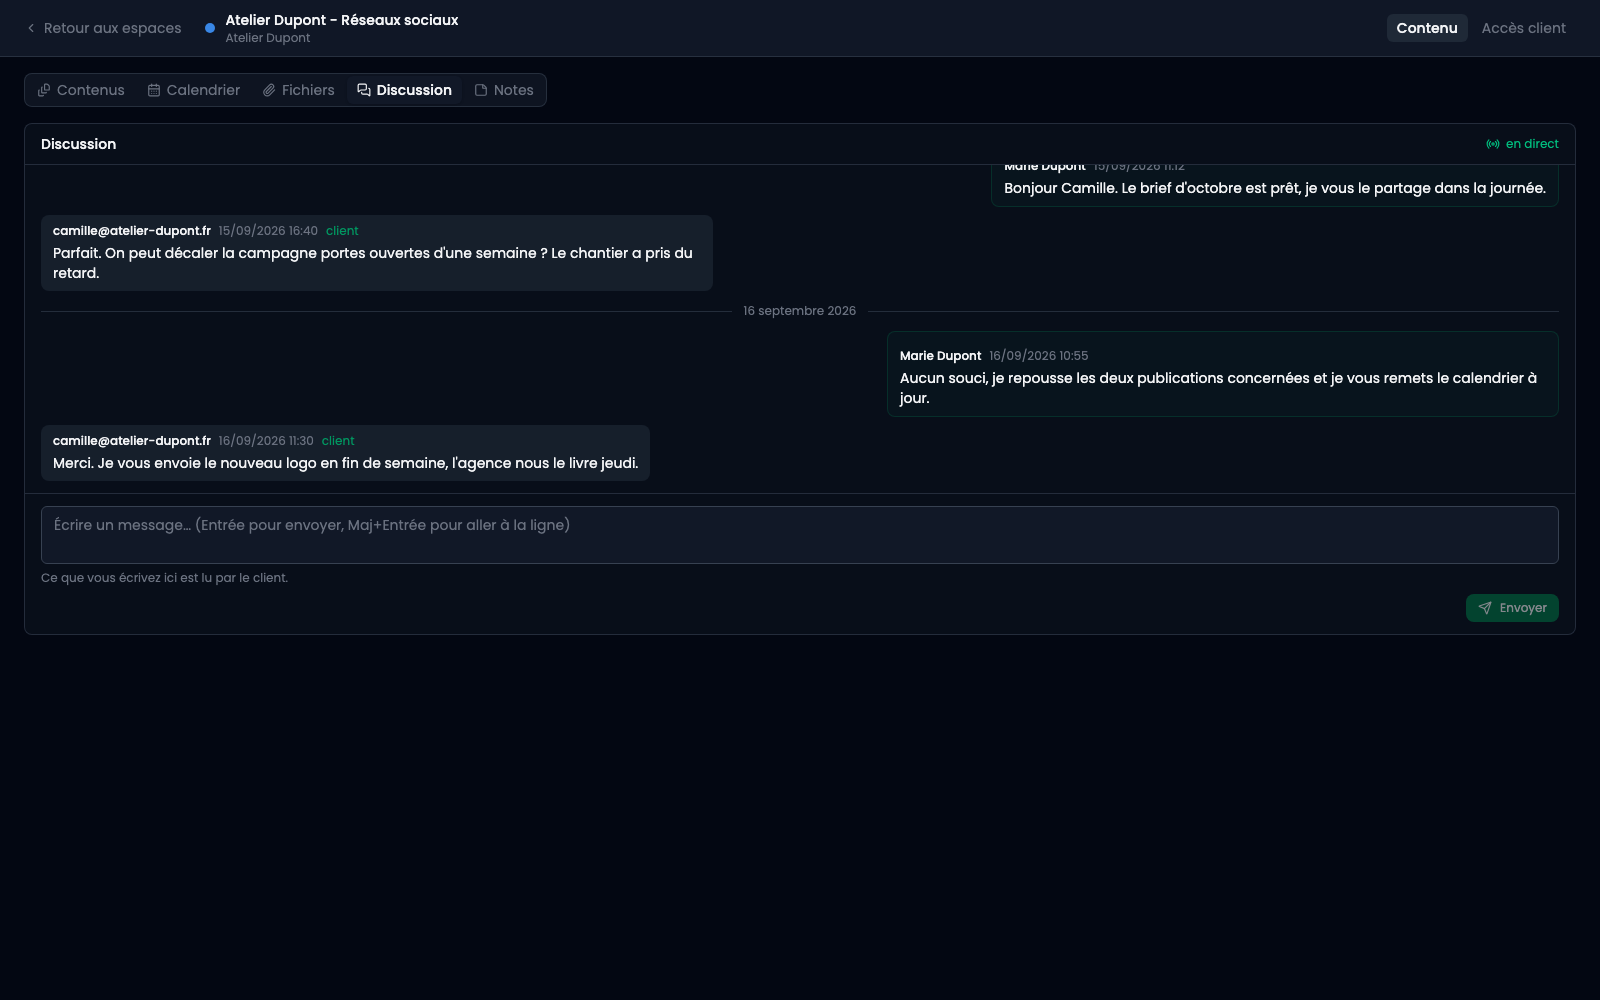
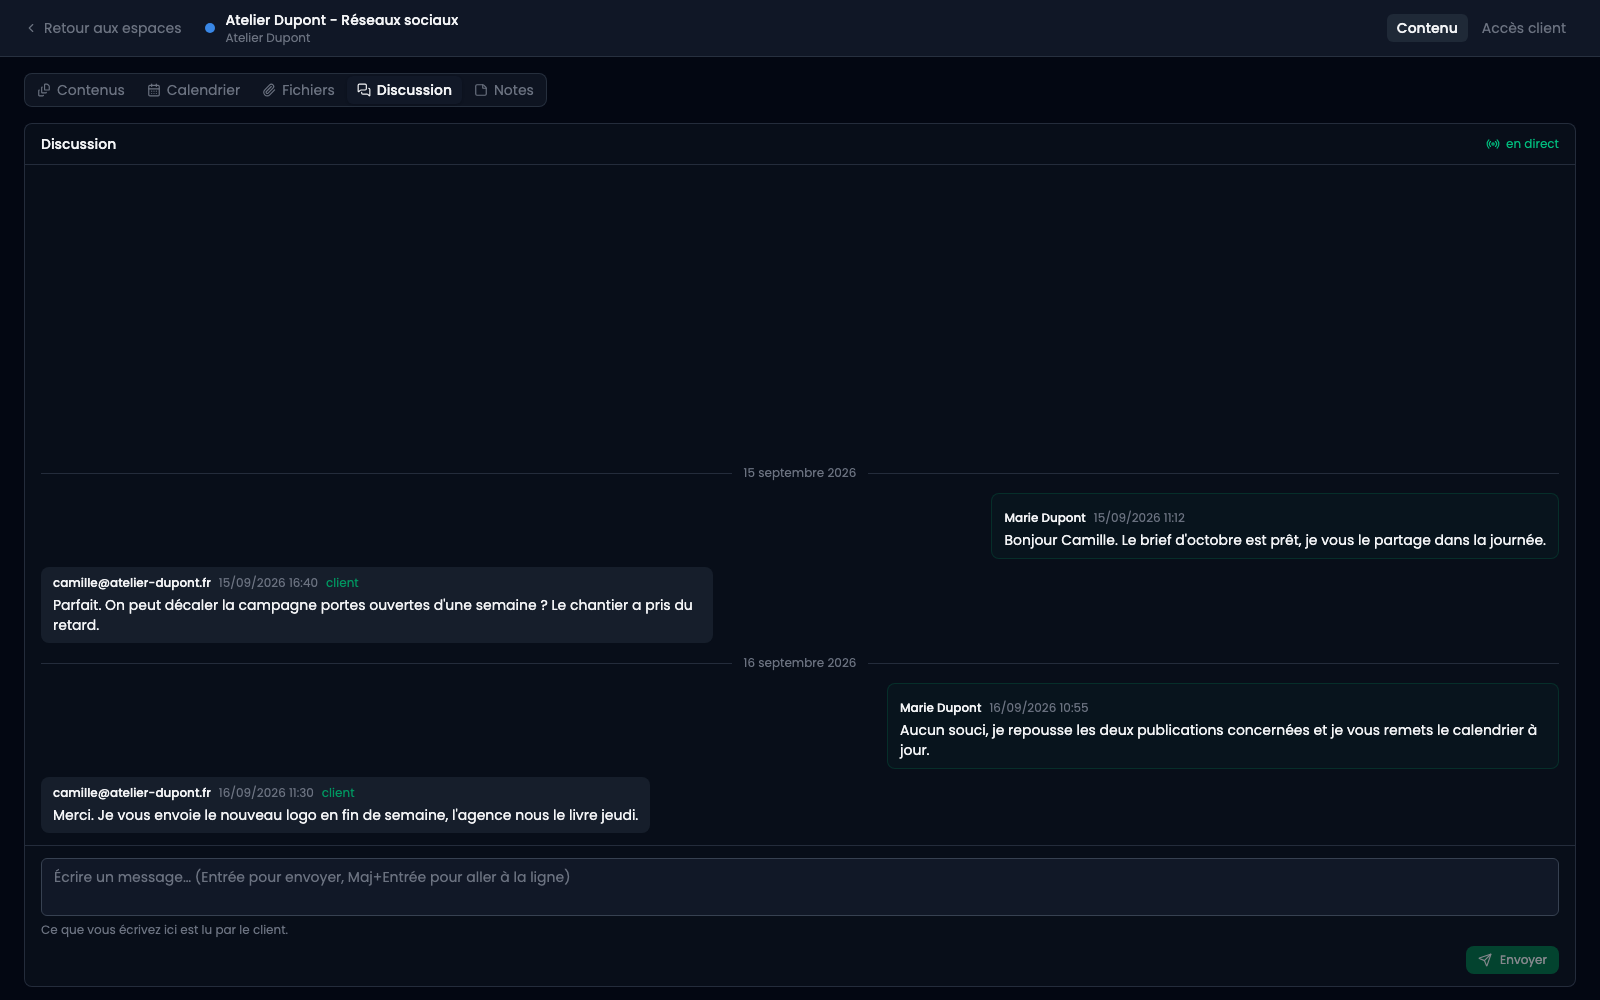
feat(studio): a space's conversation takes the screen
It sat in a box of fixed height in the middle of an empty screen: thirty
messages showed three, and you scrolled inside a window the size of a card
while the rest of the page did nothing. It is the one tab of a space read from
top to bottom with nothing else around it, so it takes the height it has.

A short conversation now rests at the bottom, above the composer, the way a
messenger does, instead of floating at the top of a void. Once it overflows the
automatic margin is zero and scrolling is ordinary again.

The container decides, not the panel: on the client's page the conversation is
one block among others under their calendar, and it keeps its size. The same
component, two places, and the place settles it.

The capture waits for the live indicator before shooting, so the documentation
cannot show the reconnecting state - which would describe a fault rather than
the product. With no hub running it now fails rather than lying.

diff --git a/src/Module/Studio/SpaceChat/assets/shared/SpaceChatPanel.vue b/src/Module/Studio/SpaceChat/assets/shared/SpaceChatPanel.vue
@@ -35,6 +35,15 @@ const props = defineProps({
     /** Shown above the box: who reads what is typed here. */
     notice: { type: String, default: "" },
     /**
+     * Prend toute la hauteur de son conteneur, au lieu de sa hauteur fixe.
+     *
+     * C'est le conteneur qui décide, pas le panneau : dans un espace, la
+     * discussion occupe l'écran parce qu'elle est l'écran, et sur la page du
+     * client elle est un bloc parmi d'autres sous le calendrier. Le même
+     * composant, deux places, et la place qui tranche.
+     */
+    fill: { type: Boolean, default: false },
+    /**
      * Which side of the conversation is reading.
      *
      * **The same stream, drawn from each reader's point of view.** A message is
@@ -189,7 +198,10 @@ function onKeydown(event) {
 </script>
 
 <template>
-    <section class="flex h-[32rem] flex-col rounded-lg border border-line/60 bg-surface-2/20">
+    <section
+        class="flex flex-col rounded-lg border border-line/60 bg-surface-2/20"
+        :class="fill ? 'h-full' : 'h-[32rem]'"
+    >
         <header class="flex items-center gap-2 border-b border-line/60 px-4 py-2.5">
             <h2 class="text-sm font-medium text-primary">
                 {{ t("shared.space_chat.title") }}
@@ -212,15 +224,19 @@ function onKeydown(event) {
             </span>
         </header>
 
+        <!-- `flex flex-col` sur le défilement, `mt-auto` sur les entrées : une
+             conversation courte se pose en bas de la boîte plutôt que de
+             flotter en haut d'un grand vide. Quand elle déborde, la marge
+             automatique vaut zéro et le défilement redevient ordinaire. -->
         <div
             ref="scroller"
-            class="flex-1 overflow-y-auto px-4 py-3"
+            class="flex flex-1 flex-col overflow-y-auto px-4 py-3"
             v-on:scroll="onScroll"
         >
             <!-- Un conteneur pour les entrées, et c'est lui qu'on observe : sa
                  hauteur est celle du contenu, la seule mesure qui dise qu'il y
                  a du nouveau sous le pli. -->
-            <div ref="content" class="space-y-2">
+            <div ref="content" class="mt-auto space-y-2">
                 <p v-if="!entries.length" class="text-sm text-muted">
                     {{ t("shared.space_chat.empty") }}
                 </p>

diff --git a/src/Module/Studio/SpaceContent/assets/backend/content/SpaceContentApp.vue b/src/Module/Studio/SpaceContent/assets/backend/content/SpaceContentApp.vue
@@ -367,15 +367,25 @@ const actionsFor = useSpaceCardActions({
              chatting on holds no connection open. The cost is that a message
              arriving while somebody is looking at the calendar is not
              announced - that is a notification's job, not a panel's. -->
-        <SpaceChatPanel
+        <!-- La hauteur de l'écran moins ce qui est au-dessus : l'en-tête de
+             l'espace, le sélecteur de vues et les marges. La discussion est le
+             seul écran d'un espace qu'on lit de haut en bas sans rien d'autre
+             autour, et une boîte de 32rem au milieu d'un écran vide donnait
+             trois messages visibles sur une conversation qui en compte trente. -->
+        <div
             v-else-if="view === 'chat'"
-            :messages="chatMessages"
-            :stream-url="chatStreamUrl"
-            :post-path="editable ? chatPostPath : null"
-            :reload-path="chatReloadPath"
-            :delete-path="editable ? chatDeletePath : null"
-            :notice="t('backend.studio.space_chat.notice')"
-        />
+            class="h-[calc(100dvh-8.5rem)] min-h-[24rem]"
+        >
+            <SpaceChatPanel
+                fill
+                :messages="chatMessages"
+                :stream-url="chatStreamUrl"
+                :post-path="editable ? chatPostPath : null"
+                :reload-path="chatReloadPath"
+                :delete-path="editable ? chatDeletePath : null"
+                :notice="t('backend.studio.space_chat.notice')"
+            />
+        </div>
 
         <!-- Le mur de notes, monté sur son propre conteneur : c'est lui qui
              décide de la forme, pas la fenêtre. -->

diff --git a/CHANGELOG.md b/CHANGELOG.md
@@ -5,6 +5,30 @@ projets clients doivent répercuter après avoir lancé `make aurora-update`.
 
 ---
 
+## [0.9.201] - 2026-09-17
+
+### Modifié
+
+#### La discussion d'un espace prend l'écran
+Elle tenait dans une boîte de hauteur fixe, posée au milieu d'un écran vide :
+une conversation de trente messages en montrait trois, et il fallait faire
+défiler dans une fenêtre grande comme une carte pendant que le reste de la page
+ne servait à rien. C'est le seul onglet d'un espace qu'on lit de haut en bas
+sans rien d'autre autour, donc il prend la hauteur disponible.
+
+**Et une conversation courte se pose en bas**, au-dessus de la zone de saisie,
+comme dans une messagerie - plutôt que de flotter en haut d'un grand vide. Dès
+qu'elle déborde, le défilement redevient ordinaire.
+
+C'est le conteneur qui décide, pas le panneau : sur la page du client, la
+discussion reste un bloc parmi d'autres sous son calendrier, et elle garde sa
+taille. Le même composant, deux places, et la place qui tranche.
+
+### Dans aurora-client
+`make aurora-update`. Aucune migration.
+
+---
+
 ## [0.9.200] - 2026-09-17
 
 ### Ajouté

diff --git a/src/Module/Documentation/content/06-studio/0075-la-discussion.md b/src/Module/Documentation/content/06-studio/0075-la-discussion.md
@@ -11,6 +11,8 @@ Dans le sélecteur de vues, à côté de Contenus, Calendrier et Fichiers : **Di
 
 ![La discussion d'un espace, côté studio](../../images/06-studio/la-discussion-01-la-discussion.png)
 
+Elle prend **toute la hauteur de l'écran** : c'est le seul onglet d'un espace qu'on lit de haut en bas sans rien d'autre autour, et une conversation de trente messages dans une boîte de la taille d'une carte n'en montre que trois. Quand il y en a peu, ils se posent en bas, au-dessus de la zone de saisie, comme dans une messagerie.
+
 **Vos messages sont à droite, ceux du client à gauche** — et sur sa page, c'est l'inverse : chacun se voit à droite. C'est le même fil, regardé de deux endroits.
 
 **Un seul fil, lu des deux côtés.** Ce que vous écrivez là, le client le lit ; la phrase sous la zone de saisie le dit.
